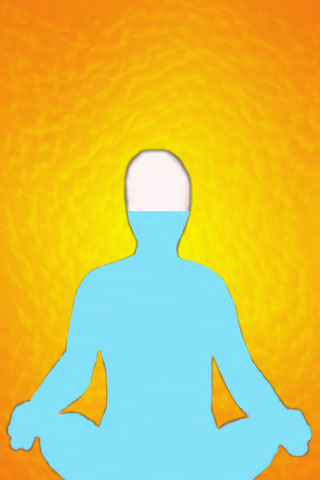
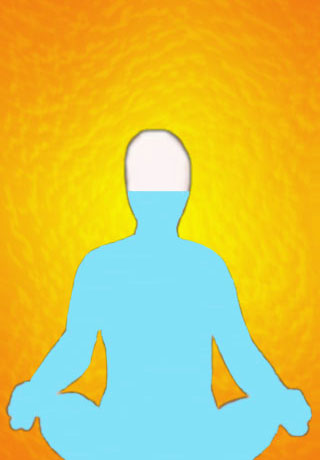
My changes

diff --git a/Classes/JustBreatheViewController.m b/Classes/JustBreatheViewController.m
@@ -81,24 +81,45 @@
  */
 -(IBAction) startBreathing {
 	myStartTime = CFAbsoluteTimeGetCurrent();
+	[NSTimer scheduledTimerWithTimeInterval:1.0 target:self selector:@selector(firstAnimation:) userInfo:nil repeats:NO];
+	[NSTimer scheduledTimerWithTimeInterval:3.0 target:self selector:@selector(secondAnimation:) userInfo:nil repeats:NO];
+	[NSTimer scheduledTimerWithTimeInterval:5.0 target:self selector:@selector(thirdAnimation:) userInfo:nil repeats:NO];
+	
+	stopButton.hidden = NO;
+	startButton.hidden = YES;
+	timeTodayLabel.text = [NSString stringWithFormat:@"Time spent today %f",[self.theAppDelegate getFromStats:@"time_today"]];
+	timeTotalLabel.text = [NSString stringWithFormat:@"Total time spent %f",[self.theAppDelegate getFromStats:@"time_total"]];
+}
+
+- (void)firstAnimation:(NSTimer*)theTimer {
 	NSArray *imgNames = [NSArray arrayWithObjects:@"breathe_background_plain.jpg",@"breathe_background_step1.jpg",@"breathe_background_step2.jpg",@"breathe_background_step3.jpg",@"breathe_background_step4.jpg",@"breathe_background_step5.jpg",@"breathe_background_step6.jpg",@"breathe_background_step7.jpg",@"breathe_background_step8.jpg",@"breathe_background_step9.jpg",@"breathe_background_step10.jpg",@"breathe_background_step11.jpg",@"breathe_background_step12.jpg",@"breathe_background_step13.jpg",@"breathe_background_step14.jpg",@"breathe_background_step15.jpg",@"breathe_background_step16.jpg",@"breathe_background_step17.jpg",@"breathe_background_step18.jpg",@"breathe_background_step19.jpg",nil];
 	NSMutableArray *myImages = [[NSMutableArray alloc] init];
 	for(int i=0;i< [imgNames count]; i++) {
 		[myImages addObject:[UIImage imageNamed:[imgNames objectAtIndex:i]] ];
 	}
+	breatheView.animationImages = myImages; 
+	breatheView.animationDuration = 2.00; 
+	// seconds 
+	breatheView.animationRepeatCount = 0; // 0 = loops forever 
+	[breatheView startAnimating];
+}
+
+- (void)secondAnimation:(NSTimer*)theTimer {
+	breatheView.image = [UIImage imageNamed:@"breathe_background_step19.jpg"];
+}
+
+- (void)thirdAnimation:(NSTimer*)theTimer {
+	NSArray *imgNames = [NSArray arrayWithObjects:@"breathe_background_plain.jpg",@"breathe_background_step1.jpg",@"breathe_background_step2.jpg",@"breathe_background_step3.jpg",@"breathe_background_step4.jpg",@"breathe_background_step5.jpg",@"breathe_background_step6.jpg",@"breathe_background_step7.jpg",@"breathe_background_step8.jpg",@"breathe_background_step9.jpg",@"breathe_background_step10.jpg",@"breathe_background_step11.jpg",@"breathe_background_step12.jpg",@"breathe_background_step13.jpg",@"breathe_background_step14.jpg",@"breathe_background_step15.jpg",@"breathe_background_step16.jpg",@"breathe_background_step17.jpg",@"breathe_background_step18.jpg",@"breathe_background_step19.jpg",nil];
+	NSMutableArray *myImages = [[NSMutableArray alloc] init];
 	for(int i=0;i< [imgNames count]; i++) {
 		int index = [imgNames count] - i -1;
 		[myImages addObject:[UIImage imageNamed:[imgNames objectAtIndex:index]] ];
 	}
 	breatheView.animationImages = myImages; 
-	breatheView.animationDuration = 5.00; 
+	breatheView.animationDuration = 2.00; 
 	// seconds 
 	breatheView.animationRepeatCount = 0; // 0 = loops forever 
 	[breatheView startAnimating];
-	stopButton.hidden = NO;
-	startButton.hidden = YES;
-	timeTodayLabel.text = [NSString stringWithFormat:@"Time spent today %f",[self.theAppDelegate getFromStats:@"time_today"]];
-	timeTotalLabel.text = [NSString stringWithFormat:@"Total time spent %f",[self.theAppDelegate getFromStats:@"time_total"]];
 }
 
 -(IBAction) stopBreathing {
